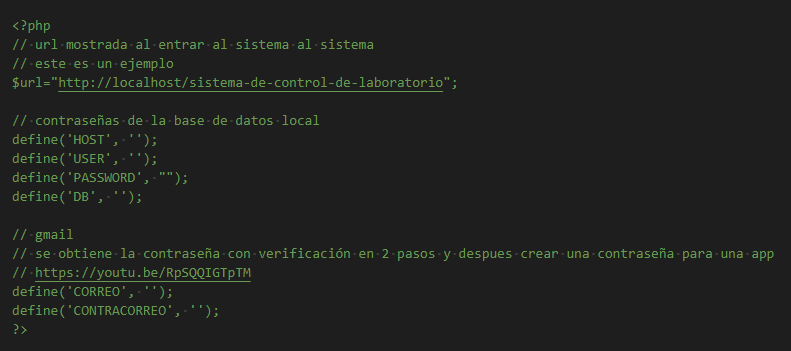
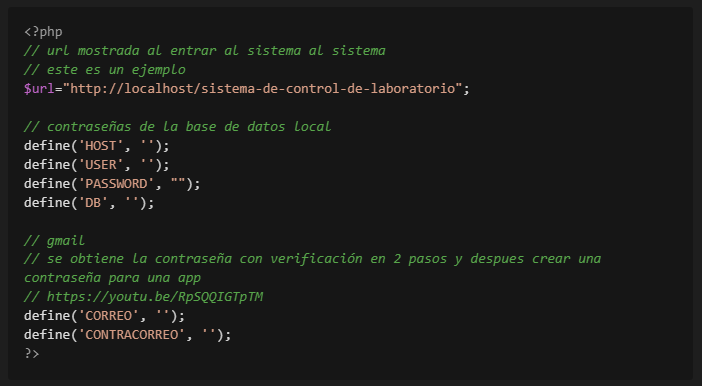
arreglo a config

diff --git a/README.md b/README.md
@@ -9,7 +9,7 @@ Creación de un sistema de control de laboratorio que permita hacer la emisión 
 
     ![Descarga de GitHub](img/readme/instalacion1.png)
 3. En la carpeta DB se encuentra un archivo *.sql el cual contiene el script de la base de datos, en el administrador de base de datos usado, importar el archivo para tener la base de datos completa, este puede ayudar en el paso 6 con el nombre de la base de datos
-4. Una vez teniendo las carpetas y archivos necesarios, entrar a config/README.md y copiar el contenido del segundo comentario
+4. Una vez teniendo las carpetas y archivos necesarios, entrar a config/README.md y copiar el contenido del código
 
     ![Información del config](img/readme/instalacion2.png)
 5. Crear un archivo config.php en el directorio config/ y pegar en él todo lo copiado en el paso 4

diff --git a/config/README.md b/config/README.md
@@ -6,9 +6,9 @@ Es un directorio con las configuraciones personales de accesibilidad que pueden 
 - contraseñas de la base de datos usada
 - contraseñas de la cuenta de gmail usada para enviar correos (ver notas en el ejemplo comentado)
 
-<!-- Estructura vacia del config.php (copiar y llenar para usar) -->
-<!--
+## Contenido del archivo a crear `config.php`
 
+```php
 <?php
 // url mostrada al entrar al sistema al sistema
 // este es un ejemplo
@@ -26,5 +26,4 @@ define('DB', '');
 define('CORREO', '');
 define('CONTRACORREO', '');
 ?>
-
--->
+```
